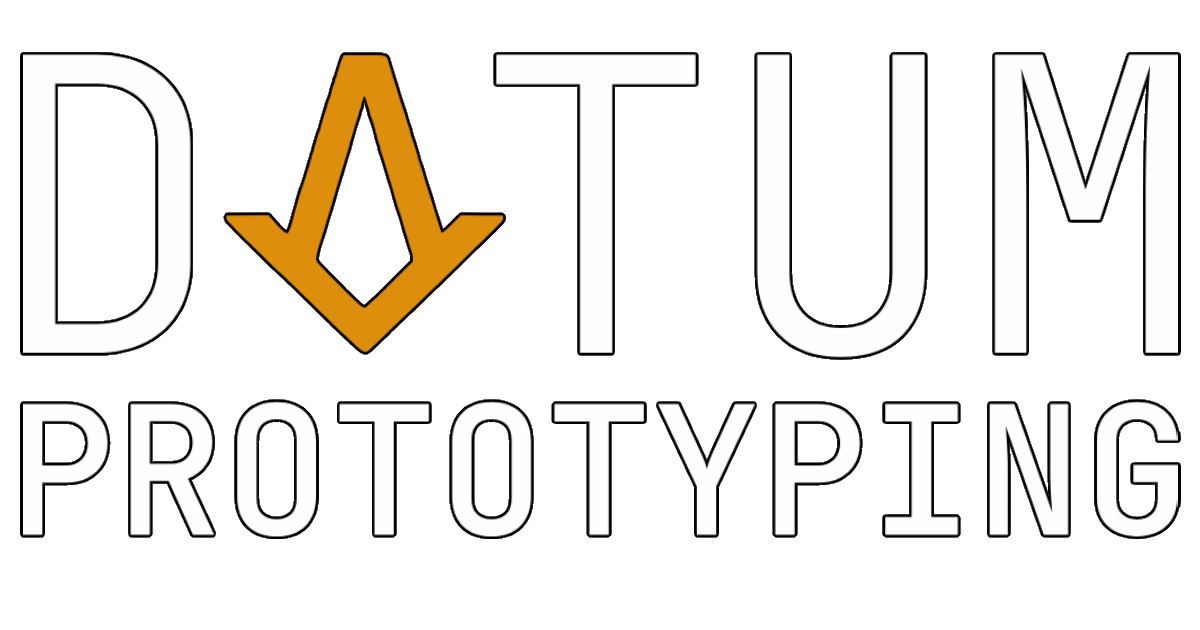
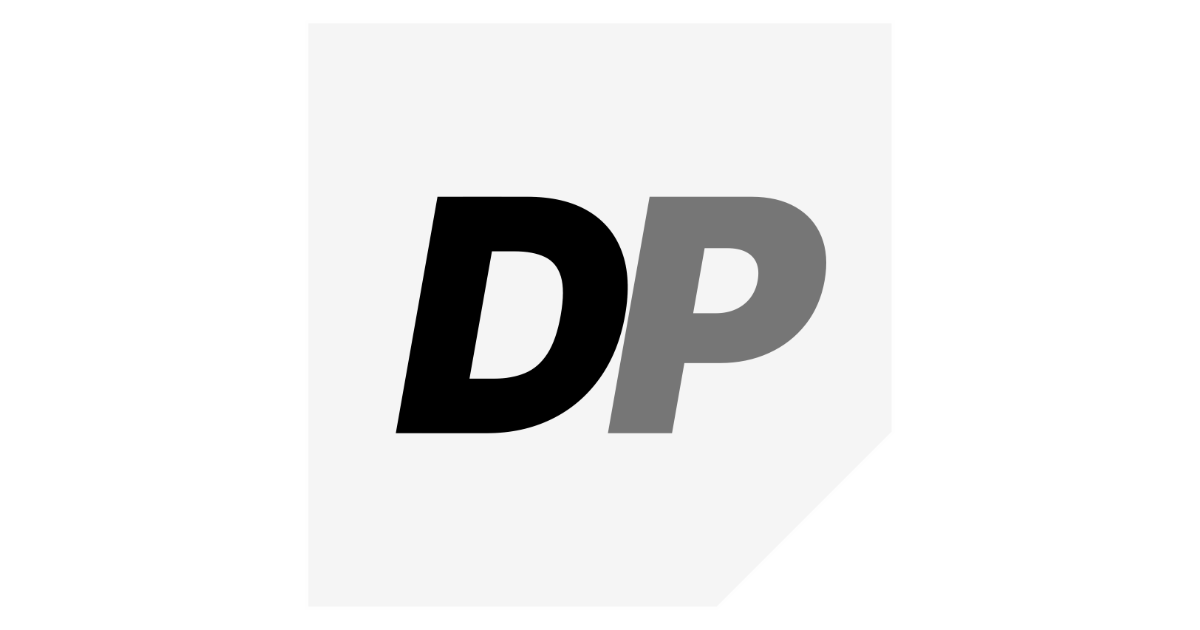
1
1

diff --git a/index.html b/index.html
@@ -3,6 +3,12 @@
 <head>
     <meta charset="UTF-8">
     <meta name="viewport" content="width=device-width, initial-scale=1.0">
+    <meta property="og:title" content="Datum Prototyping | Teknisk Portefølje // G.C.Hansen">
+    <meta property="og:description" content="Teknisk portefølje for finmekaniker. Fokus på CNC-strategi, HSM, dynamiske skæredata og mikron-tolerancer.">
+    <meta property="og:image" content="https://www.datumprototyping.dk/img/og-preview.png">
+    <meta property="og:url" content="https://www.datumprototyping.dk">
+    <meta property="og:type" content="website">
+
     <title>Datum Prototyping | Teknisk Portefølje // G.C.Hansen</title>
     <meta name="description" content="Teknisk portefølje for finmekaniker under uddannelse. Fokus på CNC-strategi, HSM, dynamiske skæredata og mikron-tolerancer.">
     <script src="https://cdn.tailwindcss.com"></script>
@@ -195,7 +201,7 @@
                 Finmekanik & <br><span class="text-[#52525b]">CNC Strategi.</span>
             </h1>
             <p class="text-[#a1a1aa] text-lg max-w-3xl leading-relaxed font-light">
-                Finmekaniker-lærling (Svendeprøve 2027) med operativt ansvar for CNC-produktion. Håndterer alt fra akut reverse-engineering til serieproduktion. Udvikler og drifter <strong class="text-white font-semibold">M_CORE</strong> – et proprietært beregningssystem designet til at erstatte tommelfingerregler med deterministisk spåntagning og maksimere maskinudnyttelsen.
+                Finmekaniker-lærling (Svendeprøve 2027) med selvstændig eksekvering af CNC-opgaver. Håndterer alt fra akut reverse-engineering til serieproduktion. Udvikler og drifter <strong class="text-white font-semibold">M_CORE</strong> – et selvudviklet beregningsværktøj designet til at erstatte tommelfingerregler med deterministisk spåntagning og maksimere maskinudnyttelsen.
             </p>
         </div>
         
@@ -337,8 +343,8 @@
                         </span>
                         <div class="flex flex-wrap gap-3">
                             <a href="fai/fai-01.html" class="btn-outline">01: Cylinder</a>
-                            <a href="fai/fai-02-camdisc.html" class="btn-outline">02: Cam Disc</a>
-                            <a href="fai/fai-03-flywheel.html" class="btn-outline">03: Flywheel</a>
+                            <a href="fai/fai-02-camdisc.html" class="btn-outline">02: Knastskive</a>
+                            <a href="fai/fai-03-flywheel.html" class="btn-outline">03: Svinghjul</a>
                         </div>
                     </div>
                 </div>
@@ -378,7 +384,7 @@
                 <div class="lg:col-span-5 flex flex-col justify-center">
                     <h3 class="font-black text-3xl text-white mb-6 uppercase tracking-tight">Fysik > Mavefornemmelse</h3>
                     <p class="text-sm font-light text-[#a1a1aa] leading-relaxed mb-8">
-                        M_CORE er min proprietære og lukkede CNC-motor. Systemet er kodet fra bunden til at fjerne gætværk i spåntagningen. Ved at beregne alt ud fra rå fysik – maskinens moment, materialets egenskaber og værktøjets geometri – sikrer M_CORE deterministiske og optimerede skæredata til mine CAM-strategier.
+                        M_CORE er min selvudviklede beregningsmodel. Systemet er kodet fra bunden til at fjerne gætværk i spåntagningen. Ved at beregne alt ud fra rå fysik – maskinens moment, materialets egenskaber og værktøjets geometri – sikrer M_CORE deterministiske og optimerede skæredata til mine CAM-strategier.
                     </p>
                     <ul class="font-mono text-xs font-semibold space-y-4 text-[#a1a1aa]">
                         <li class="flex items-center gap-3"><span class="text-[#52525b]">01</span> Deterministisk Skæredata</li>
@@ -429,9 +435,9 @@
                     <div class="panel p-8 border-t-2 border-t-[#00e5ff]">
                         <div class="panel-cross-br"></div>
                         <span class="font-mono font-bold text-[10px] text-[#52525b] uppercase tracking-widest block mb-4">Fase: CAD / Designafklaring</span>
-                        <h3 class="font-bold text-xl text-white mb-3 uppercase">ER16 Collets // Vindejern</h3>
+                        <h3 class="font-bold text-xl text-white mb-3 uppercase">ER16 Spændetænger // Vindejern</h3>
                         <p class="text-sm font-light text-[#a1a1aa] mb-8 leading-relaxed">
-                            Fremstilling af ER16 collets til et vindejern for en hovedforløbselev. Projektet afventer i øjeblikket, at eleven færdigdesigner komponenterne i CAD. Når 3D-data er leveret, overgår vi til CAM-programmering og instruktion.
+                            Fremstilling af ER16 spændetænger til et vindejern for en hovedforløbselev. Projektet afventer i øjeblikket, at eleven færdigdesigner komponenterne i CAD. Når 3D-data er leveret, overgår vi til CAM-programmering og instruktion.
                         </p>
                         <div class="w-full bg-[#111] h-1 mb-4">
                             <div class="bg-[#00e5ff] h-full w-[5%]"></div>
@@ -475,7 +481,7 @@
                     <div class="panel p-8 border-t-2 border-t-[#333333] opacity-60 hover:opacity-100 transition-opacity">
                         <div class="panel-cross-br"></div>
                         <span class="font-mono font-bold text-[10px] text-[#52525b] uppercase tracking-widest block mb-4">Fase: Afventer Maskintid</span>
-                        <h3 class="font-bold text-xl text-white mb-3 uppercase">Custom Kæber // Diesella</h3>
+                        <h3 class="font-bold text-xl text-white mb-3 uppercase">Specialkæber // Diesella</h3>
                         <p class="text-sm font-light text-[#a1a1aa] mb-8 leading-relaxed">
                             Udvikling af specialkæber. CAD-design afsluttet, men produktionen er pt. sat i venteposition til fordel for mere akutte opgaver.
                         </p>
@@ -566,7 +572,7 @@
                         For at minimere iterationer og fejlkommunikation, bedes alle nye fremstillings-forespørgsler følge en stram datastruktur. 
                     </p>
                     <p class="text-sm font-light text-[#a1a1aa] leading-relaxed mb-8">
-                        Kopier protokollen til højre, og udfyld felterne så præcist som muligt. Mangelfuld data resulterer i forsinket produktionsstart.
+                        Kopier protokollen til højre, og udfyld felterne så præcist som muligt. Ufuldstændigt datagrundlag kræver yderligere iterationer og forlænger forberedelsesfasen.
                     </p>
                 </div>
                 